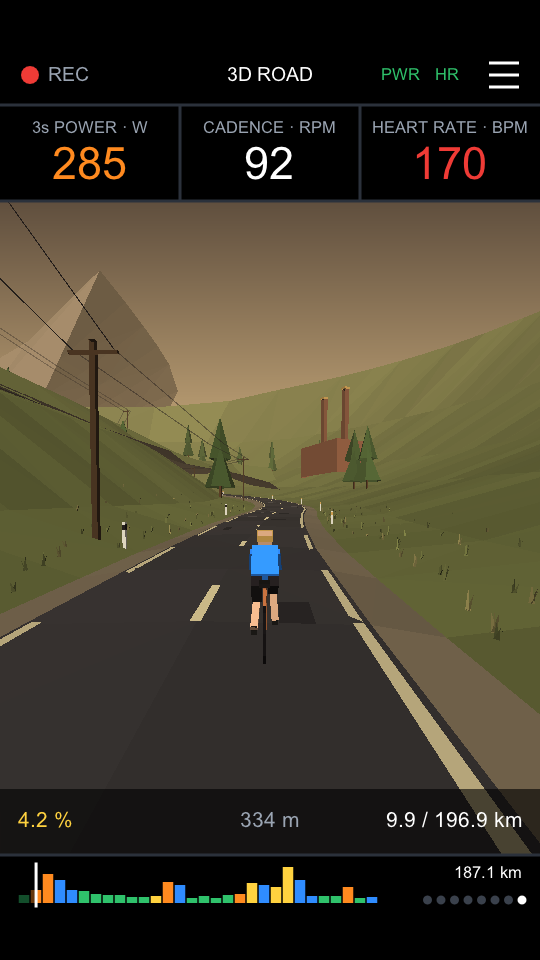
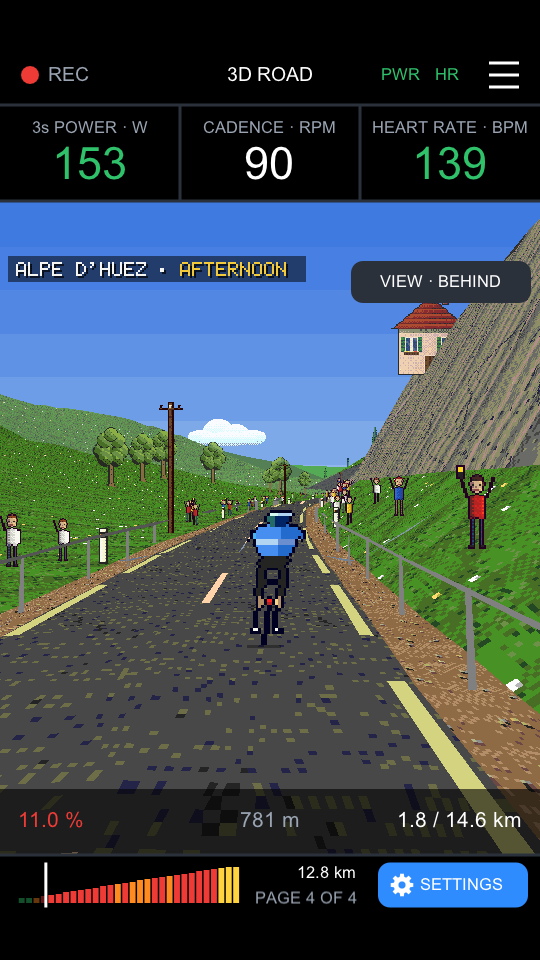
New version.

diff --git a/index.html b/index.html
@@ -741,8 +741,9 @@
       <div class="wrap">
         <div class="section-head">
           <h2>Ride the route as a 3D road.</h2>
-          <p>Swipe to the last page and the route you're riding becomes a road in front of you, rising where the
-            trainer gets harder. Simple on purpose, so it runs on any phone and keeps your eyes on the effort.</p>
+          <p>Swipe to the last page and the route you're riding becomes a road in front of you, drawn like a 16-bit
+            console racer and rising where the trainer gets harder. Pixel art on purpose: it runs on any phone and keeps
+            your eyes on the effort.</p>
         </div>
 
         <div class="feature">
@@ -750,19 +751,23 @@
             <span class="tag" style="color: var(--z2)">3D road</span>
             <h3>The real route, bend by bend.</h3>
             <p>The road follows the route's map coordinates and its elevation: the hairpins of Alpe d'Huez, the
-              climbs of Il Lombardia. Your power, cadence and heart rate stay above it, the grade, elevation and
+              cobbles of Flanders and Roubaix. Your power, cadence and heart rate stay above it, the grade, elevation and
               distance below.</p>
             <ul class="ticks" style="--c: var(--z2)">
               <li>Every route gets it, the ones you draw in the <a href="route-builder.html">Route Builder</a> too.
                 No route? An endless road at your speed</li>
-              <li>Hills, pines, telegraph poles, houses, factory chimneys, kilometre stones and the odd airship</li>
-              <li>See it through your own eyes, or from behind a rider who pedals at your cadence</li>
+              <li>Pixel-art trees and pines, brick villages, telegraph poles, railings, kilometre signs, and a crowd
+                that waves you up the steep ramps</li>
+              <li>Cobbles on the Flanders and Roubaix routes, asphalt elsewhere, and a sky that follows your clock:
+                morning, afternoon, sunset or stars</li>
+              <li>One tap on VIEW: see it from the saddle, hands on the bars, or from behind a rider who pedals at
+                your cadence and gets out of the saddle on the steep</li>
               <li>Your speed is what your watts and your weight give on that road, not the trainer's flywheel</li>
             </ul>
           </div>
           <div class="shot">
             <div class="phone"><img src="images/phone-road.png" width="540" height="960" loading="lazy"
-                alt="3D road on Il Lombardia: a rider in blue on a winding road between hills, factory chimneys ahead, 285 W, 4.2 % grade">
+                alt="16-bit 3D road on Alpe d'Huez: a pixel-art rider in blue standing on the pedals at 11 %, spectators waving by the railings, a house on the rock face">
             </div>
           </div>
         </div>
@@ -777,49 +782,49 @@
               a hill, and a note when one of you passes the other and who reached the finish first.</p>
           </div>
           <div class="tablet"><img src="images/tablet-road.png" width="1600" height="900" loading="lazy"
-              alt="Tablet: 3D road on Alpe d'Huez with the ride's numbers on the left and the pacer 21 m ahead, marked over its head">
+              alt="Tablet: the 16-bit road on the Paris-Roubaix cobbles, the ride's numbers on the left and the pacer 247 m ahead, marked over its head">
           </div>
         </div>
 
         <div class="wide">
           <div class="text">
             <span class="tag" style="color: var(--z4)">Why it looks this way</span>
-            <h3>Built for a hard hour on the trainer, not for a game console.</h3>
+            <h3>A game's looks, built for a hard hour on the trainer.</h3>
             <p>Every choice in the 3D road comes from what it's for: showing you where the road goes and how hard
               it's about to get, on a phone that's already busy talking to your trainer.</p>
           </div>
           <div class="grid">
             <div class="card">
               <div class="bar" style="--c: var(--z2)"></div>
-              <h3>Flat shading, on purpose</h3>
-              <p>Plain polygons and distance fog, like late-1990s games with their textures off, in a warm sepia. No
-                game engine and nothing to download: the road is drawn with the same graphics as the rest of the app,
-                in a sliver of each frame, so it runs on modest phones and works offline.</p>
+              <h3>16-bit, on purpose</h3>
+              <p>Pixel-art textures and sprites, shaded the way console artists did it, with no game engine and
+                nothing to download: the app paints every picture itself when it starts and draws the road with the
+                same graphics as the rest of the app, so it runs on modest phones and works offline.</p>
             </div>
             <div class="card">
               <div class="bar" style="--c: var(--z6)"></div>
               <h3>Climbs you can see coming</h3>
-              <p>A real 5 % looks flat on a screen. So the road is drawn one and a half times steeper, the view tilts
-                with the slope and the asphalt darkens the steeper it climbs: you see where the climb starts before
-                your legs do. The numbers stay true.</p>
+              <p>A real 5 % looks flat on a screen. So the road is drawn one and a half times steeper and the view
+                tilts with the slope: you see where the climb starts before your legs do. On the steep ramps the crowd
+                gathers and your rider stands on the pedals. The numbers stay true.</p>
             </div>
             <div class="card">
               <div class="bar" style="--c: var(--z3)"></div>
               <h3>A sense of speed</h3>
-              <p>Marker posts every 20 m, tufts of grass on the banks, patches in the asphalt and the centre line
-                stream past close by, so even 9 km/h up a hairpin feels like progress.</p>
+              <p>Marker posts every 20 m, railings, the cobbles and the centre line stream past close by, so even
+                9 km/h up a hairpin feels like progress.</p>
             </div>
             <div class="card">
               <div class="bar" style="--c: var(--z5)"></div>
               <h3>The same road every ride</h3>
               <p>The scenery is placed by the distance along the route, not at random. Ride a route again and the
-                chimneys and the farmhouse are where you left them, so you learn it as you would a real climb.</p>
+                village and the big oak are where you left them, so you learn it as you would a real climb.</p>
             </div>
             <div class="card">
               <div class="bar" style="--c: var(--z4)"></div>
               <h3>Easy on the battery</h3>
-              <p>Smooth while you ride, at 60 frames a second, and nothing at all when you stop: not a frame is
-                drawn while you stand still.</p>
+              <p>30 frames a second while you ride, all that pixel art needs, and nothing at all when you stop: not a
+                frame is drawn while you stand still.</p>
             </div>
             <div class="card">
               <div class="bar" style="--c: var(--z7)"></div>

diff --git a/README.md b/README.md
@@ -10,7 +10,8 @@ app uses. They're plain HTML files with no build step and no backend.
 
 ### Landing page (`index.html`)
 
-The home page that presents the app, with screenshots in `images/` (from the app's Play Store graphics; `phone-road.png` and `tablet-road.png`, the 3D road, are frames the trainer renders offscreen with `--raw`).
+The home page that presents the app, with screenshots in `images/` (from the app's Play Store graphics; `phone-road.png` and `tablet-road.png`, the 3D road in its 16-bit look, are frames the trainer renders offscreen with
+`--raw --page 8`, e.g. `--workout alpe-dhuez.csv --minutes 6 --size 540x960` with `camera = chase` in a `--config` file).
 The Google Play buttons go to the early access (open testing) opt-in; after the production release, point them
 at the store listing.
 Every page links `site.css`: the dark palette, the header (logo, page title, pages) and the buttons.
